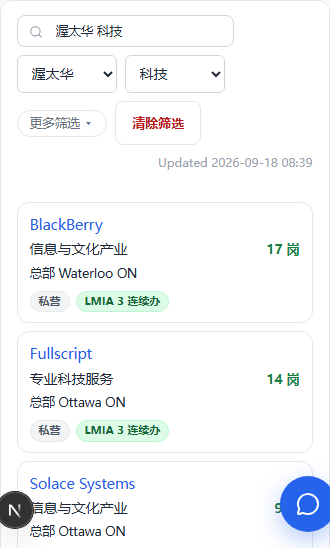
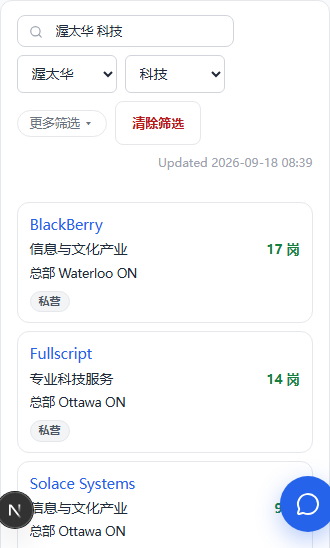
docs(design): 雇主板 LMIA 列筛了才出 + 两枚胶囊开关改下拉(Frank「默认不显,开了开关才出列」「这种也设计成下拉框?」)[skip render]

Changed region(s): [[0.2121, 0.7445, 0.5152, 0.8066], [0.2121, 0.5274, 0.5152, 0.5894]]

diff --git a/docs/design/雇主分类与搜索-20260918.md b/docs/design/雇主分类与搜索-20260918.md
@@ -27,7 +27,7 @@
 
 **他是谁**:访客身份,雇主愿意办 LMIA 才能落地。他要的不是「办过一次」的雇主,是「年年都办」的雇主。
 
-**他怎么用**:开「办过 LMIA」开关,「LMIA」列看数字和「连续办」灰注(2024、2025 两年都有获批记录)。农业和低薪流的数字不在这一列,他不会被鱼加工厂的 2,000 个名额骗进去。
+**他怎么用**:LMIA 下拉选「办过 LMIA」或「连续办 LMIA」,表上多出「LMIA」列,看数字和「连续办」灰注(2024、2025 两年都有获批记录)。农业和低薪流的数字不在这一列,他不会被鱼加工厂的 2,000 个名额骗进去。
 
 **要如实给他的真相**:LMIA 近两年总量砍半、仅永居流归零(见「LMIA 证据」),这条通道在收窄。列上只给技能类,口径注写明。
 
@@ -56,7 +56,7 @@
 
 ### 筛选行(照职位板形态)
 
-`搜索 / 城市 / 行业 / 类别 / 「无经验可投」/ 「办过 LMIA」/ 清除筛选 / Updated`。**不出已选胶囊行**(2026-09-18 Frank「这种胶囊的也去掉吧」):搜索认出的维度直接落进对应下拉框显示,改下拉即改筛选。省下拉退役,城市下拉带省(值 = 城市 + 省码,显示照 CityNameCell)。≤640 手机:搜索 + 城市 + 行业露出,类别与两枚开关折进「更多筛选」(职位板 foldfilters 同形)。
+`搜索 / 城市 / 行业 / 类别 / 经验 / LMIA / 清除筛选 / Updated`,**整行全是下拉,不用胶囊开关**(2026-09-18 Frank「这种也设计成下拉框?」):经验 = 经验不限 / 无经验可投;LMIA = LMIA 不限 / 办过 LMIA / 连续办 LMIA(多出「连续办」一档,直接筛到两年都办的那批)。**不出已选胶囊行**(2026-09-18 Frank「这种胶囊的也去掉吧」):搜索认出的维度直接落进对应下拉框显示,改下拉即改筛选。省下拉退役,城市下拉带省(值 = 城市 + 省码,显示照 CityNameCell)。≤640 手机:搜索 + 城市 + 行业露出,类别、经验、LMIA 三个下拉折进「更多筛选」(职位板 foldfilters 同形)。
 
 ### 搜索:跨列多词(照职位板搜索机器)
 
@@ -66,14 +66,14 @@
 - 后端:`employer_pool.name` 与别名列建 pg_trgm GIN(DDL 里 09-13 留的「批二可换 trgm」);城市 / 行业 / 类别三列各建 btree,新筛选参数上线必查索引(08-08 实撞)。
 - 防抖 300ms 保留(雇主板现状),职位板每键即搜不改。
 
-### 列(桌面八列,手机卡片)
+### 列(桌面默认七列,LMIA 下拉选了值多一列;手机卡片)
 
-`雇主 / 行业 / 类别 / 总部 / 在招 / 指定雇主 / LMIA / 操作`(2026-09-18 Frank「招聘地点去掉吧」:原九列的「招聘地点」撤)
+`雇主 / 行业 / 类别 / 总部 / 在招 / 指定雇主 / 操作`,LMIA 下拉不是「不限」时在「指定雇主」后多出 `LMIA` 一列(2026-09-18 Frank「招聘地点去掉吧」:原九列的「招聘地点」撤)
 
 - 行业:只显部门中文名,不带代码灰注;推断的加「推断」灰注。
 - 类别:通用 tag 桶 gray 变体。
 - 总部:CityNameCell 双行形(中文主文案 + 英文灰注);提不到总部时显主场城市。
-- **LMIA 一格**(列名就叫「LMIA」,2026-09-18 Frank「就叫 lmia 不行吗」:限定词是数据口径不是用户文案):数 = 近两年高薪流 + 全球人才流获批份数(2025 全年 39,852 个职位、18,709 家雇主,主体是 TEER 2 / 3 的卡车司机、木工、餐厅经理、焊工、机修;软件两职业合计 3.4%),「连续办」灰注 = 2024、2025 两年都有记录;0 显「—」。农业 / 低薪流不上板,只在公司页担保记录卡按流拆开。
+- **LMIA 列默认不显,LMIA 下拉选了「办过」或「连续办」才出列**(2026-09-18 Frank 拍:在招雇主 35,770 家里近两年办过的 3,665 家、两年都办的 996 家,只占 2.8%,默认显着就是一整列「—」;手机卡片上的 LMIA 胶囊同此)。**LMIA 一格**(列名就叫「LMIA」,2026-09-18 Frank「就叫 lmia 不行吗」:限定词是数据口径不是用户文案):数 = 近两年高薪流 + 全球人才流获批份数(2025 全年 39,852 个职位、18,709 家雇主,主体是 TEER 2 / 3 的卡车司机、木工、餐厅经理、焊工、机修;软件两职业合计 3.4%),「连续办」灰注 = 2024、2025 两年都有记录;0 显「—」。农业 / 低薪流不上板,只在公司页担保记录卡按流拆开。
 - 排序键:默认在招岗数降序;行业 / 类别 / 指定 / LMIA 可点排序;裸 LMIA 总量永不入排序(08-29)。
 - 口径注(保留类文案):「行业与类别为本站归类,不等于资格认定;被指定不等于在招」。
 
@@ -82,6 +82,7 @@
 | 端 | 现状 | 建议 |
 |---|---|---|
 | 桌面 1440 | ![](img/雇主板分类-桌面-现状-20260918.png) | ![](img/雇主板分类-桌面-建议-20260918.png) |
+| 桌面,LMIA 选「办过 LMIA」 | | ![](img/雇主板分类-桌面-建议开LMIA-20260918.png) |
 | 手机 375 | ![](img/雇主板分类-手机-现状-20260918.png) | ![](img/雇主板分类-手机-建议-20260918.png) |
 
 ## 两处 top 段(不做榜页)
@@ -132,7 +133,7 @@
 | 2 类目与映射 | statcan 域 NAICS 表(20 / 99 三语);Jobillico 映射表补完 27 空格;行业别名表 | 条数与官方一致;映射表 Frank 抽查 |
 | 3 行业试点 | `etl/classify` 公司段:标签层 + 模型层 + NOC 兜底;抽 100 家给 Frank 核 | 准确率 / 弃权率报数 |
 | 4 池表接线 | companies / employer_pool 加列;总部提取步;LMIA 连续办;seed 六步 | 在招雇主行业填充率、总部填充率报数 |
-| 5 雇主板换版 | 筛选行、跨列搜索、八列、手机折叠;效果图已过 | 搜索金标 20 句全过;四道闸;生产换版 |
+| 5 雇主板换版 | 筛选行、跨列搜索、七列(开关态八列)、手机折叠;效果图已过 | 搜索金标 20 句全过;四道闸;生产换版 |
 | 6 两处 top 段 | 公司页「同城同行业在招」;城市详情页并入城市段批三 | 效果图已过(公司页);城市页另立 |
 
 ## 已拍 / 待拍
@@ -149,6 +150,8 @@
 9. 已选胶囊行撤,搜索认出的维度直接落下拉框(Frank「这种胶囊的也去掉吧」)。
 10. 行业格不带 NAICS 代码灰注,只留中文名(Frank「灰注去掉,只留中文名」)。
 11. LMIA 列与开关文案不带「技能类 / 高薪类」限定词,就叫「LMIA」「办过 LMIA」;排除农业 / 低薪 / 仅永居三流是数据层口径,留在本文与代码注释(Frank「就叫 lmia 不行吗」)。
+12. LMIA 列默认不显,筛了 LMIA 才出列(Frank「默认不显,开了开关才出列」)。
+13. 筛选行两枚胶囊开关改下拉:经验两档、LMIA 三档(Frank「这种也设计成下拉框?」)。
 
 **待拍**:
 - 行业别名表(「科技」= 51 + 54 这类归并)由我填、Frank 抽查 —— 同 Jobillico 映射表做法。
@@ -156,4 +159,4 @@
 
 ## 状态
 
-- 2026-09-18:设计稿 + 五张效果图。同日 Frank「招聘地点去掉吧」「这种胶囊的也去掉吧」「灰注去掉,只留中文名」:列撤、已选行撤、代码灰注撤、LMIA 去限定词、效果图重拍。
+- 2026-09-18:设计稿 + 五张效果图。同日 Frank「招聘地点去掉吧」「这种胶囊的也去掉吧」「灰注去掉,只留中文名」:列撤、已选行撤、代码灰注撤、LMIA 去限定词、LMIA 列改筛了才出、两枚胶囊开关改下拉、效果图重拍(桌面多一张 LMIA 态)。
